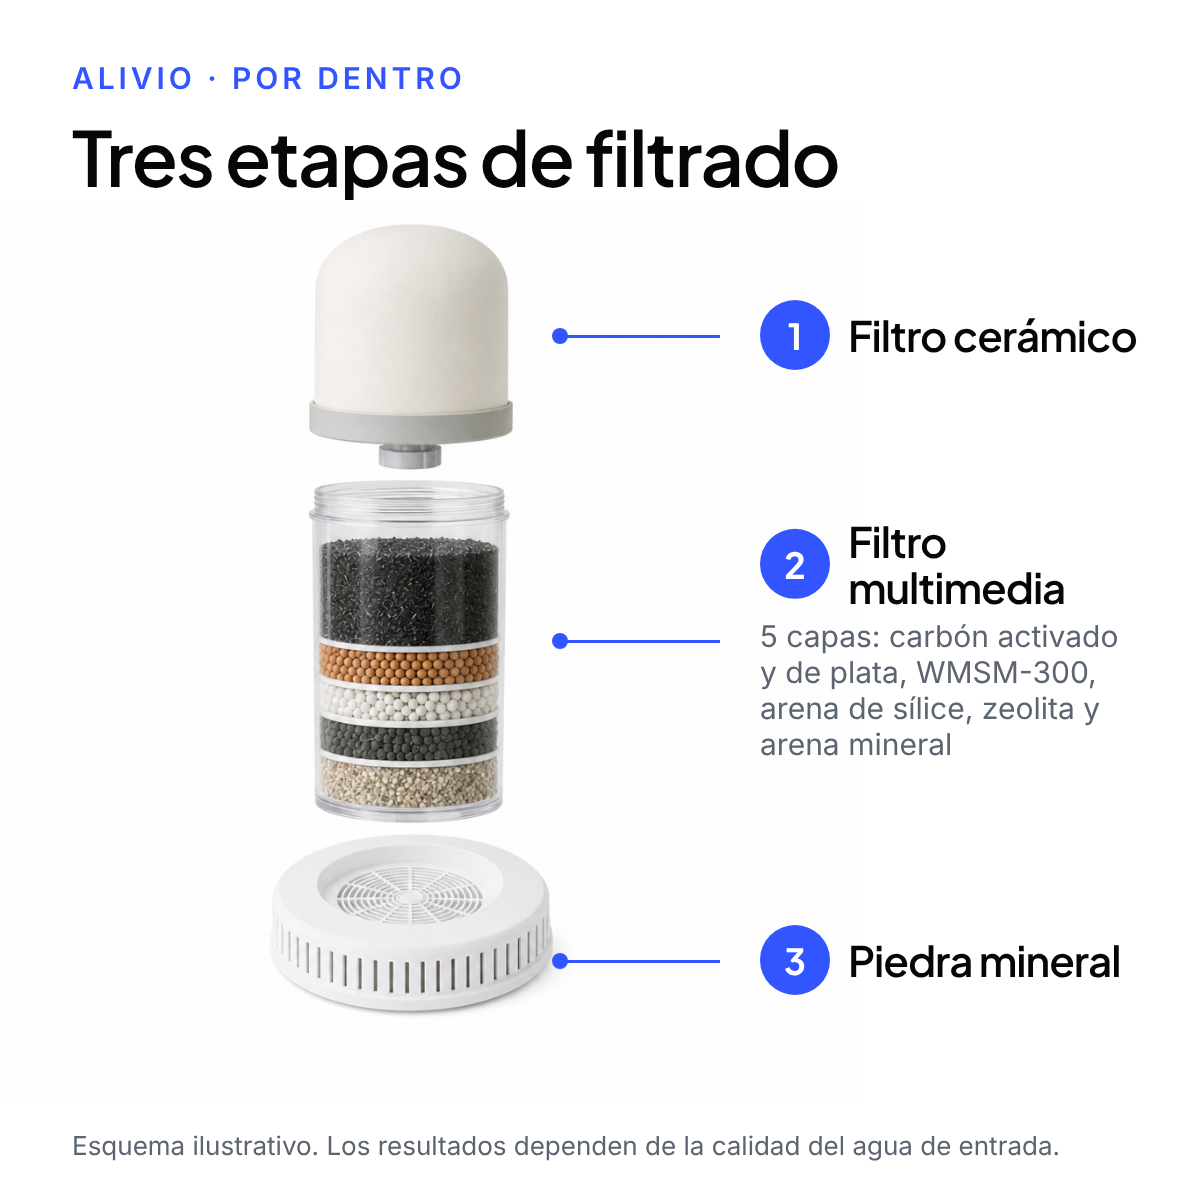
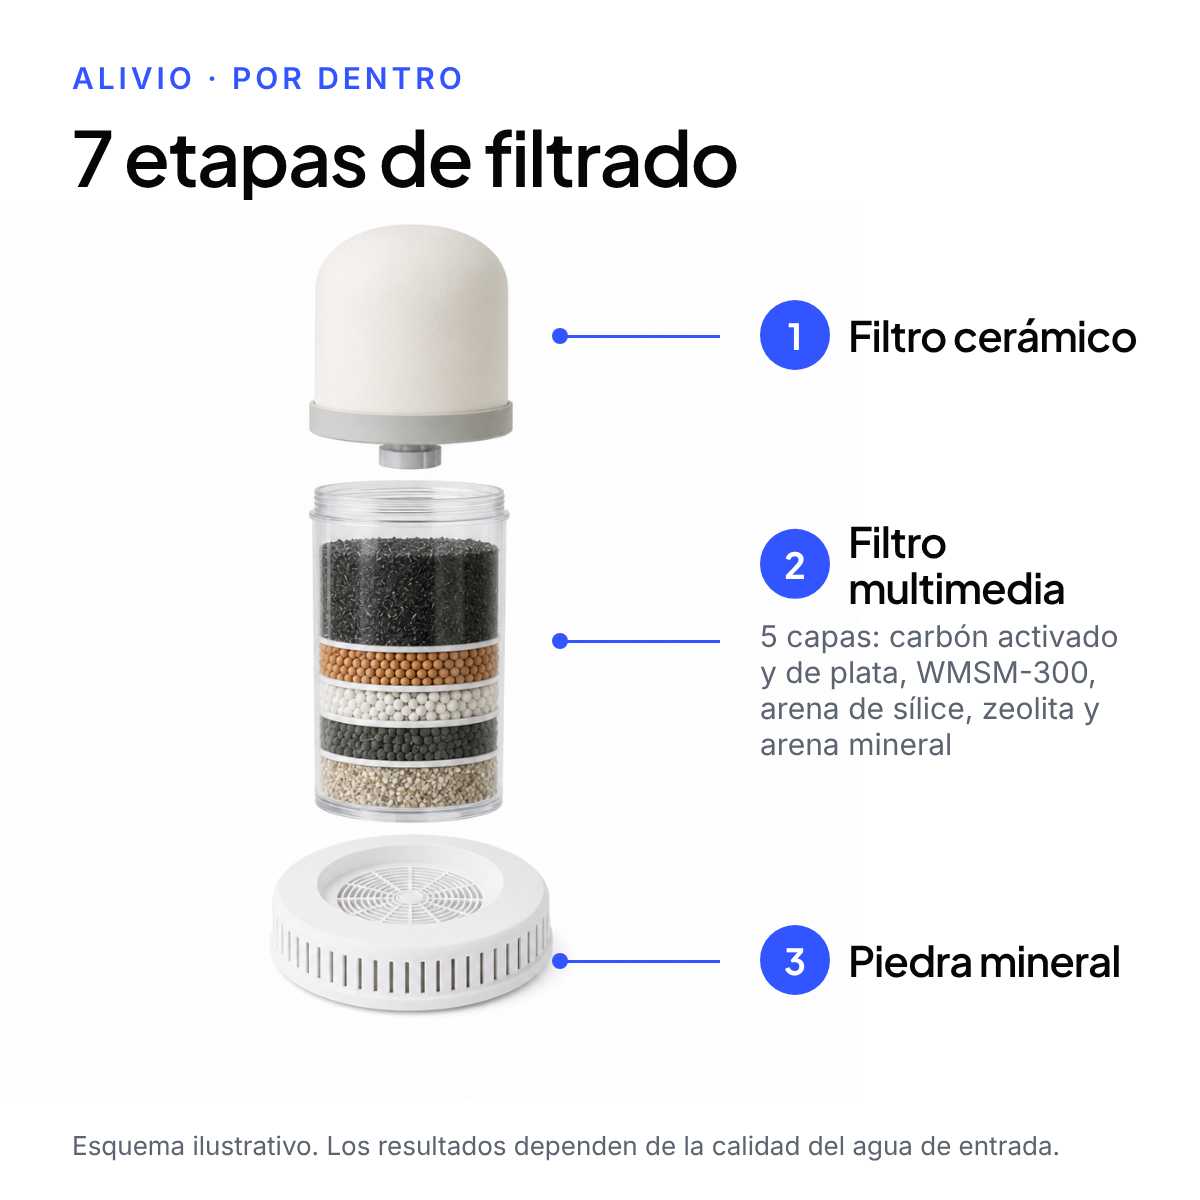
Galería Alivio: 7 etapas y medidas en la lámina de tamaños
Claude-Session: https://claude.ai/code/session_01Buo77uofKMf1g7UXANtFhU

Changed region(s): [[0.0617, 0.0925, 0.7092, 0.185]]

diff --git a/brands/elvo/web/galeria-alivio/s10.html b/brands/elvo/web/galeria-alivio/s10.html
@@ -12,11 +12,11 @@ h1,h2,h3,.pj{font-family:'Plus Jakarta Sans',Arial,sans-serif;letter-spacing:-.0
 .num{width:70px;height:70px;border-radius:50%;background:#3355FF;color:#fff;font-family:'Plus Jakarta Sans';font-weight:700;font-size:36px;display:grid;place-items:center;flex:none}
 <style></style></head><body style="background:#EEF3F7"><div style="position:absolute;left:72px;top:72px"><span class="k">Tamaños</span><h1 style="font-size:78px;font-weight:600;margin-top:14px;line-height:1.04">Elige cuánto alivio<br>quieres tener</h1></div>
 <div style="position:absolute;left:72px;top:330px;display:flex;gap:56px"><div style="width:500px;background:#fff;border-radius:34px;padding:40px 40px 44px;text-align:center"><span class="k">Alivio 16</span>
-<div style="width:300px;height:300px;margin:18px auto 8px;overflow:hidden;border-radius:24px"><img src="assets/producto.png" style="width:520px;margin:-80px 0 0 -110px"></div>
+<div style="width:300px;height:300px;margin:18px auto 8px;overflow:hidden;border-radius:24px"><img src="assets/producto.png" style="width:420px;margin:-60px 0 0 -62px"></div>
 <h2 style="font-size:92px;font-weight:700;line-height:1">16<span style="font-size:48px;font-weight:600;margin-left:10px">litros</span></h2>
-<p style="font-size:44px;font-weight:600;color:#3355FF;margin-top:18px">S/ 159</p></div><div style="width:500px;background:#fff;border-radius:34px;padding:40px 40px 44px;text-align:center"><span class="k">Alivio 22</span>
+<p style="font-size:44px;font-weight:600;color:#3355FF;margin-top:18px">S/ 159</p><p style="font-size:30px;color:#5B6470;margin-top:14px;line-height:1.25">62 × 35 × 31 cm</p></div><div style="width:500px;background:#fff;border-radius:34px;padding:40px 40px 44px;text-align:center"><span class="k">Alivio 22</span>
 <div style="width:300px;height:300px;margin:18px auto 8px;overflow:hidden;border-radius:24px"><img src="assets/producto22.png" style="width:360px;margin:-30px 0 0 -30px"></div>
 <h2 style="font-size:92px;font-weight:700;line-height:1">22<span style="font-size:48px;font-weight:600;margin-left:10px">litros</span></h2>
-<p style="font-size:44px;font-weight:600;color:#3355FF;margin-top:18px">S/ 198</p></div></div>
+<p style="font-size:44px;font-weight:600;color:#3355FF;margin-top:18px">S/ 198</p><p style="font-size:30px;color:#5B6470;margin-top:14px;line-height:1.25">61 × 35 × 23.5 cm</p></div></div>
 <div style="position:absolute;left:72px;top:1040px;font-size:42px;font-weight:500">Más litros, más alivio. <span style="color:#5B6470">Alivio 22, para toda la casa.</span></div>
-<div class="fn">Capacidad total del recipiente.</div></body></html>
+<div class="fn">Medidas: alto × largo × ancho. Capacidad total del recipiente.</div></body></html>

diff --git a/brands/elvo/web/galeria-alivio/s8.html b/brands/elvo/web/galeria-alivio/s8.html
@@ -10,7 +10,7 @@ h1,h2,h3,.pj{font-family:'Plus Jakarta Sans',Arial,sans-serif;letter-spacing:-.0
 .ic svg{width:100%;height:100%;fill:none;stroke:currentColor;stroke-width:2.2;stroke-linecap:round;stroke-linejoin:round}
 .fn{position:absolute;left:72px;right:72px;bottom:38px;font-size:26px;line-height:1.25;color:#5B6470}
 .num{width:70px;height:70px;border-radius:50%;background:#3355FF;color:#fff;font-family:'Plus Jakarta Sans';font-weight:700;font-size:36px;display:grid;place-items:center;flex:none}
-<style></style></head><body style="background:#fff"><div style="position:absolute;left:72px;top:60px"><span class="k">Alivio · Por dentro</span><h1 style="font-size:76px;font-weight:600;margin-top:12px">Tres etapas de filtrado</h1></div>
+<style></style></head><body style="background:#fff"><div style="position:absolute;left:72px;top:60px"><span class="k">Alivio · Por dentro</span><h1 style="font-size:76px;font-weight:600;margin-top:12px">7 etapas de filtrado</h1></div>
 <img src="assets/explosionado.png" style="position:absolute;left:-40px;top:200px;width:900px;height:900px">
 <div style="position:absolute;left:760px;top:335px;width:380px;transform:translateY(-50%)"><div style="display:flex;gap:18px;align-items:center"><div class="num">1</div><h3 style="font-size:42px;font-weight:600;line-height:1.1">Filtro cerámico</h3></div></div>
 <div style="position:absolute;left:560px;top:335px;width:160px;height:3px;background:#3355FF"></div><div style="position:absolute;left:552px;top:328px;width:16px;height:16px;border-radius:50%;background:#3355FF"></div><div style="position:absolute;left:760px;top:640px;width:380px;transform:translateY(-50%)"><div style="display:flex;gap:18px;align-items:center"><div class="num">2</div><h3 style="font-size:42px;font-weight:600;line-height:1.1">Filtro multimedia</h3></div><p style="font-size:30px;line-height:1.2;color:#5B6470;margin-top:8px">5 capas: carbón activado y de plata, WMSM-300, arena de sílice, zeolita y arena mineral</p></div>

diff --git a/brands/elvo/web/galeria-alivio/build.py b/brands/elvo/web/galeria-alivio/build.py
@@ -52,21 +52,21 @@ foto('s7','g5-armado.png','Armado','Lo armas tú, en casa','Coloca el filtro y l
 foto('s9','g6-ph.png','Gotas de pH incluidas','Mide el pH de tu agua','Una gota en el vaso y comparas.')
 
 # 4 tamaños
-def size(n,p,img=None):
+def size(n,p,img=None,dim=''):
     return f'''<div style="width:500px;background:#fff;border-radius:34px;padding:40px 40px 44px;text-align:center"><span class="k">Alivio {n}</span>
-<div style="width:300px;height:300px;margin:18px auto 8px;overflow:hidden;border-radius:24px">{img or '<img src="assets/producto.png" style="width:520px;margin:-80px 0 0 -110px">'}</div>
+<div style="width:300px;height:300px;margin:18px auto 8px;overflow:hidden;border-radius:24px">{img or '<img src="assets/producto.png" style="width:420px;margin:-60px 0 0 -62px">'}</div>
 <h2 style="font-size:92px;font-weight:700;line-height:1">{n}<span style="font-size:48px;font-weight:600;margin-left:10px">litros</span></h2>
-<p style="font-size:44px;font-weight:600;color:#3355FF;margin-top:18px">S/ {p}</p></div>'''
+<p style="font-size:44px;font-weight:600;color:#3355FF;margin-top:18px">S/ {p}</p><p style="font-size:30px;color:#5B6470;margin-top:14px;line-height:1.25">{dim}</p></div>'''
 page('s10',f'''<div style="position:absolute;left:72px;top:72px"><span class="k">Tamaños</span><h1 style="font-size:78px;font-weight:600;margin-top:14px;line-height:1.04">Elige cuánto alivio<br>quieres tener</h1></div>
-<div style="position:absolute;left:72px;top:330px;display:flex;gap:56px">{size(16,159)}{size(22,198,'<img src="assets/producto22.png" style="width:360px;margin:-30px 0 0 -30px">')}</div>
+<div style="position:absolute;left:72px;top:330px;display:flex;gap:56px">{size(16,159,None,'62 × 35 × 31 cm')}{size(22,198,'<img src="assets/producto22.png" style="width:360px;margin:-30px 0 0 -30px">','61 × 35 × 23.5 cm')}</div>
 <div style="position:absolute;left:72px;top:1040px;font-size:42px;font-weight:500">Más litros, más alivio. <span style="color:#5B6470">Alivio 22, para toda la casa.</span></div>
-<div class="fn">Capacidad total del recipiente.</div>''',bg='#EEF3F7')
+<div class="fn">Medidas: alto × largo × ancho. Capacidad total del recipiente.</div>''',bg='#EEF3F7')
 # 5 por dentro
 def lab(y,n,t,sub='',h=''):
     s_=f'<p style="font-size:30px;line-height:1.2;color:#5B6470;margin-top:8px">{sub}</p>' if sub else ''
     return f'''<div style="position:absolute;left:760px;top:{y}px;width:380px;transform:translateY(-50%)"><div style="display:flex;gap:18px;align-items:center"><div class="num">{n}</div><h3 style="font-size:42px;font-weight:600;line-height:1.1">{t}</h3></div>{s_}</div>
 <div style="position:absolute;left:560px;top:{y}px;width:160px;height:3px;background:#3355FF"></div><div style="position:absolute;left:552px;top:{y-7}px;width:16px;height:16px;border-radius:50%;background:#3355FF"></div>'''
-page('s8',f'''<div style="position:absolute;left:72px;top:60px"><span class="k">Alivio · Por dentro</span><h1 style="font-size:76px;font-weight:600;margin-top:12px">Tres etapas de filtrado</h1></div>
+page('s8',f'''<div style="position:absolute;left:72px;top:60px"><span class="k">Alivio · Por dentro</span><h1 style="font-size:76px;font-weight:600;margin-top:12px">7 etapas de filtrado</h1></div>
 <img src="assets/explosionado.png" style="position:absolute;left:-40px;top:200px;width:900px;height:900px">
 {lab(335,1,"Filtro cerámico")}{lab(640,2,"Filtro multimedia","5 capas: carbón activado y de plata, WMSM-300, arena de sílice, zeolita y arena mineral")}{lab(960,3,"Piedra mineral")}
 <div class="fn">Esquema ilustrativo. Los resultados dependen de la calidad del agua de entrada.</div>''',bg='#fff')
